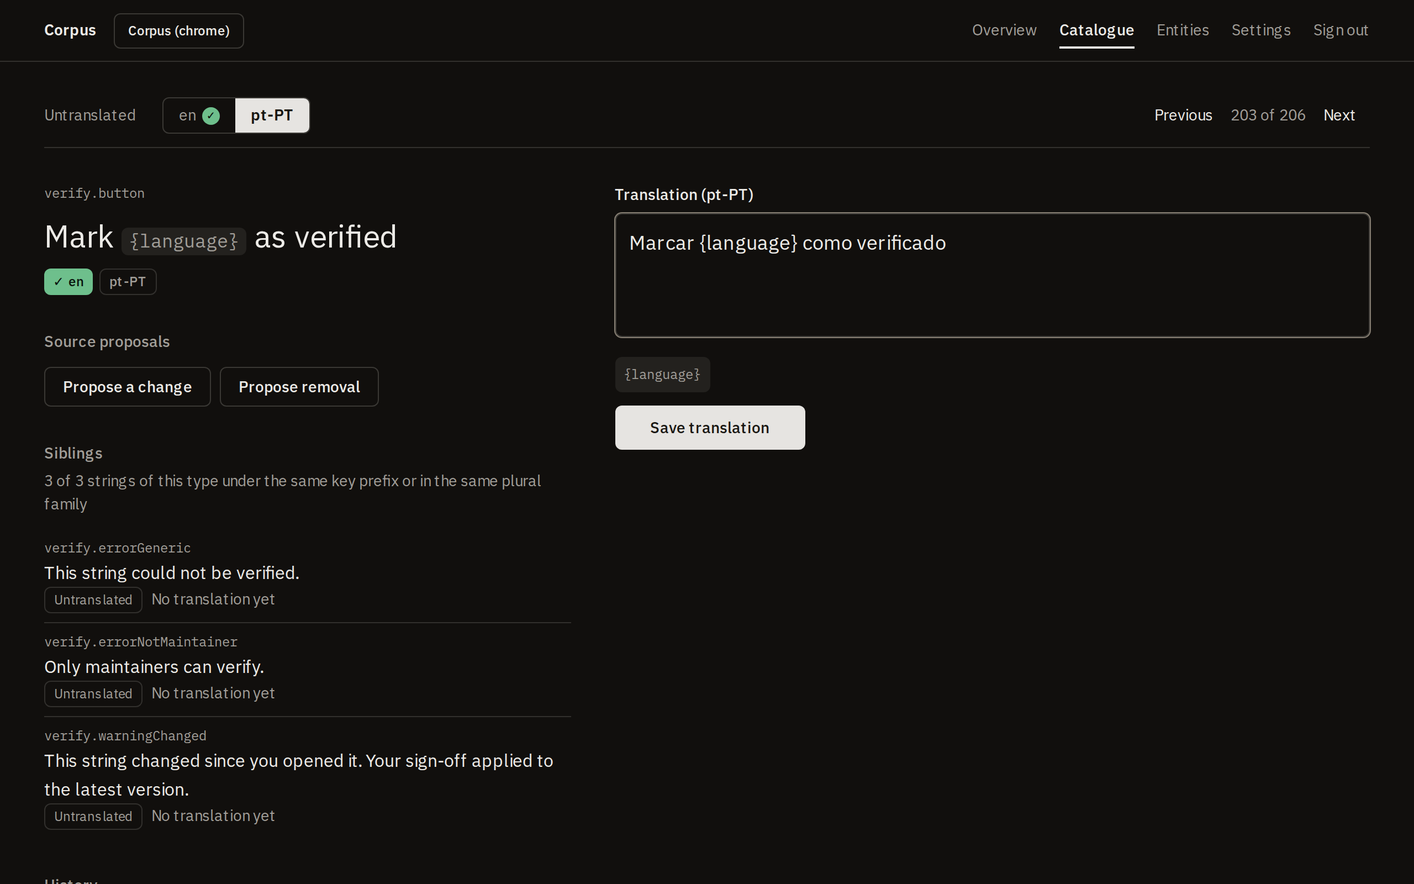
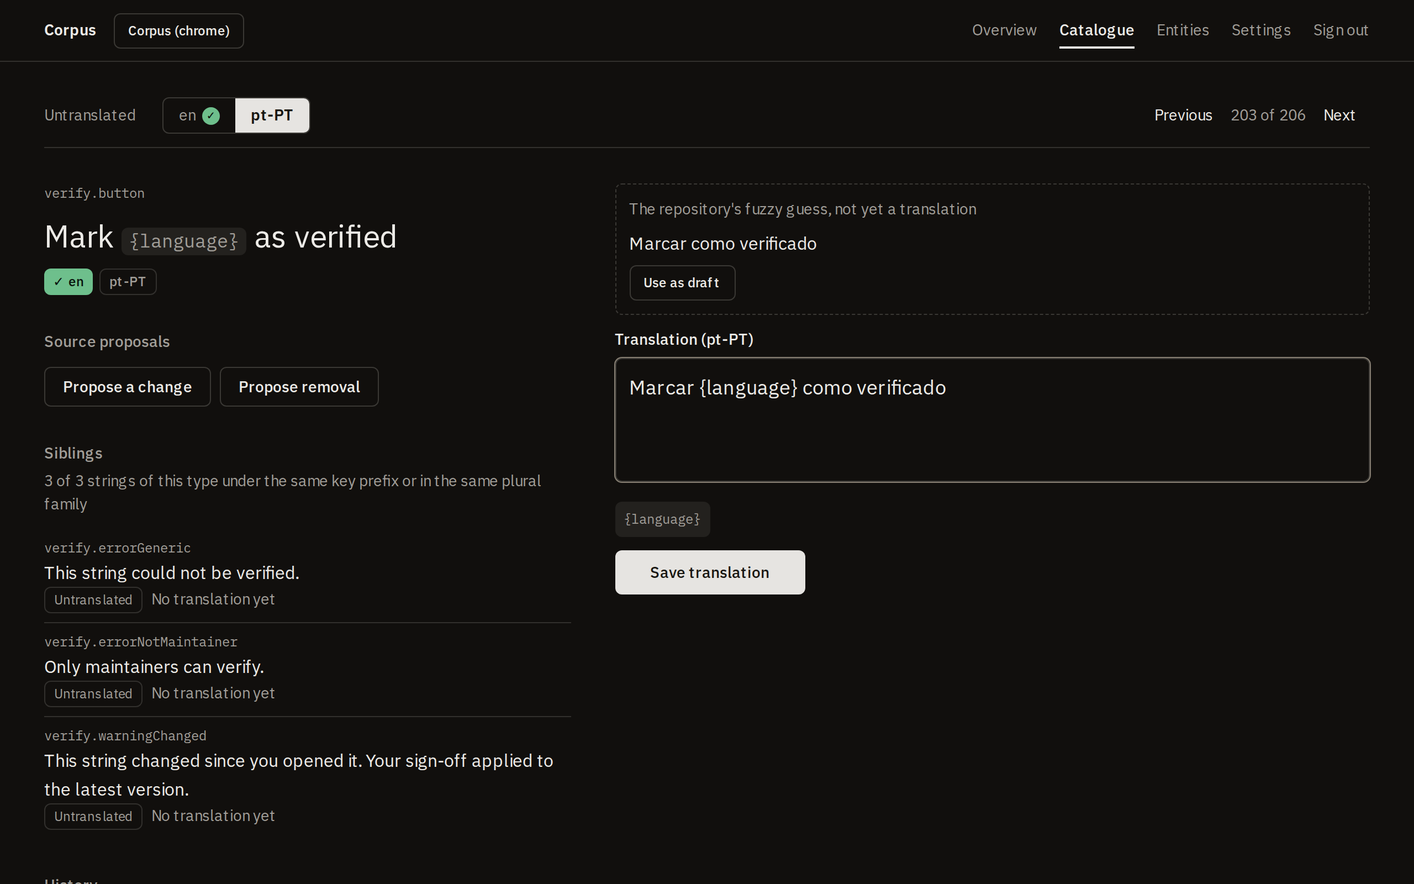
The editor shows the repository's fuzzy guess on an untranslated row, with a button that copies it into the draft (#811)
* The editor shows the repository's fuzzy guess on an untranslated row, with a button that copies it into the draft

* The suggestion is labelled once, shown as it will be copied, and focuses the draft when used

diff --git a/apps/web/src/components/target-pane.tsx b/apps/web/src/components/target-pane.tsx
@@ -174,6 +174,7 @@ export function TargetPane({
   queue,
   examples = [],
   sourceLanguage,
+  suggestion = null,
 }: {
   action: (formData: FormData) => void | Promise<void>;
   source: string;
@@ -192,6 +193,9 @@ export function TargetPane({
   // The examples' slot values are in the source language unless they
   // carry the target's (§7); the preview says which.
   sourceLanguage: string;
+  // The repository's guess to start from (#774): shown, never saved
+  // until the translator saves.
+  suggestion?: string | null;
 }) {
   const [text, setText] = useState(initialText);
   const ref = useRef<HTMLTextAreaElement>(null);
@@ -245,6 +249,29 @@ export function TargetPane({
       <input type="hidden" name="openedVersion" value={openedVersion} />
       <input type="hidden" name="openedSource" value={sourceStamp(source)} />
       {queue && <input type="hidden" name="queue" value={queue} />}
+      {suggestion && (
+        <div
+          role="region"
+          aria-labelledby="suggestion-label"
+          className="space-y-2 rounded-md border border-dashed border-input p-3"
+        >
+          <p id="suggestion-label" className="text-sm text-muted-foreground">
+            {t("editor.suggestionLabel")}
+          </p>
+          <p className="text-base whitespace-pre-wrap">{suggestion}</p>
+          <Button
+            type="button"
+            variant="outline"
+            size="sm"
+            onClick={() => {
+              setText(suggestion);
+              ref.current?.focus();
+            }}
+          >
+            {t("editor.useSuggestion")}
+          </Button>
+        </div>
+      )}
       <Field label={t("editor.targetLabel", { language })}>
         <textarea
           ref={ref}

diff --git a/apps/web/src/components/target-pane.test.tsx b/apps/web/src/components/target-pane.test.tsx
@@ -708,3 +708,45 @@ test("a select and a plural on one argument name each get their own chip and ske
     ),
   ).toEqual({ ok: true });
 });
+
+test("a suggestion shows above the draft, and its button fills the draft, validated as typed text; none, nothing shown (#774)", () => {
+  render(
+    <TargetPane
+      action={vi.fn()}
+      source={SOURCE}
+      slots={slots}
+      language="en"
+      initialText=""
+      slug="mm"
+      stringKey="k"
+      openedVersion={1}
+      sourceLanguage="pt-PT"
+      suggestion="{witness} saw {suspect}"
+    />,
+  );
+  const region = screen.getByRole("region", {
+    name: "The repository's fuzzy guess, not yet a translation",
+  });
+  expect(region.textContent).toContain("{witness} saw {suspect}");
+  const textarea = screen.getByRole("textbox") as HTMLTextAreaElement;
+  expect(textarea.value).toBe("");
+  fireEvent.click(screen.getByRole("button", { name: "Use as draft" }));
+  expect(textarea.value).toBe("{witness} saw {suspect}");
+  expect(document.activeElement).toBe(textarea);
+  // The guess drops {hour}: validation says so, as for typed text.
+  expect(screen.getByText("Missing {hour}")).toBeTruthy();
+  expect(
+    (
+      screen.getByRole("button", {
+        name: "Save translation",
+      }) as HTMLButtonElement
+    ).disabled,
+  ).toBe(true);
+  cleanup();
+  pane();
+  expect(
+    screen.queryByRole("region", {
+      name: "The repository's fuzzy guess, not yet a translation",
+    }),
+  ).toBeNull();
+});

diff --git a/apps/web/src/app/p/[slug]/s/[stringId]/page.tsx b/apps/web/src/app/p/[slug]/s/[stringId]/page.tsx
@@ -19,6 +19,7 @@ import { OtherLanguages } from "@/components/other-languages";
 import { GlossaryTerms } from "@/components/glossary-terms";
 import { Siblings } from "@/components/siblings";
 import { NoteText } from "@/components/note-text";
+import { suggestionOf } from "@/translations/suggestion";
 import { siblingsOf } from "@/strings/siblings";
 import { inPositionOrder } from "@/strings/slots";
 import { ProposalPanel } from "@/components/proposal-panel";
@@ -377,6 +378,7 @@ export default async function StringPage({
                 queue={queueKind}
                 examples={examples}
                 sourceLanguage={project.sourceLanguage}
+                suggestion={suggestionOf(targetRow)}
               />
             </section>
           )}

diff --git a/apps/web/e2e/screenshots.ts b/apps/web/e2e/screenshots.ts
@@ -167,7 +167,12 @@ async function main(): Promise<void> {
   const changed = structuredClone(chrome);
   const heading = changed.strings.find((s) => s.id === "entities.heading");
   if (heading) heading.source = `${heading.source} & relations`;
-  await pushChrome(changed);
+  // A fuzzy guess on the string the editor shot opens (#774); every push
+  // replaces suggestions, so this one carries it.
+  await pushChrome({
+    ...changed,
+    seedSuggestions: { "pt-PT": { "verify.button": "Marcar como verificado" } },
+  });
 
   await page.goto(corpus, { waitUntil: "networkidle" });
   await shot("dashboard");

diff --git a/apps/web/src/translations/suggestion.test.ts b/apps/web/src/translations/suggestion.test.ts
@@ -1,0 +1,11 @@
+import { expect, test } from "vitest";
+import { suggestionOf } from "./suggestion";
+
+test("a suggestion is offered only on a row with no translation (#774)", () => {
+  expect(suggestionOf({ state: "untranslated", suggestion: "Guess" })).toBe(
+    "Guess",
+  );
+  expect(suggestionOf({ state: "translated", suggestion: "Guess" })).toBeNull();
+  expect(suggestionOf({ state: "verified", suggestion: "Guess" })).toBeNull();
+  expect(suggestionOf({ state: "untranslated", suggestion: null })).toBeNull();
+});

diff --git a/apps/web/src/translations/suggestion.ts b/apps/web/src/translations/suggestion.ts
@@ -1,0 +1,8 @@
+// The suggestion a row's editor offers: the repository's, a gettext
+// fuzzy row (#721, #773), only while the row has no translation (#774).
+export function suggestionOf(row: {
+  state: string;
+  suggestion: string | null;
+}): string | null {
+  return row.state === "untranslated" && row.suggestion ? row.suggestion : null;
+}

diff --git a/docs/corpus-design.md b/docs/corpus-design.md
@@ -346,7 +346,7 @@ All surfaces are project-scoped under `/p/[slug]/…`, with a project switcher (
 
 1. **Dashboard** — per-language progress bars broken down by string type, or, from eight languages on, a table of one row and one bar per language, ordered by how many rows are untranslated, most first, with the source language pinned above them and ties by code, the per-type bars behind a disclosure on the row when the project has more than one type; **queues** as buttons: *untranslated (n)* (never a variant of the source, §8), *stale (n)*, *unverified source (n)*, *agent drafts (n)* once the project has any (§10): the `translated` rows whose latest edit is the agent actor's, so a maintainer walks machine text as its own pile and verifies it row by row, and *invalid (n)* once the project has any: the seeds that fail validation (§8), each with what is wrong as the editor says it, counted per language and type beside the states. Tapping a queue opens the editor at its first item. A translator should never wonder what to work on. The same numbers, from the same query, are the `/api/status` response, read with the project token, and the output of `corpus status` (§3).
 2. **Catalogue** — every string; FTS5 search (accent-insensitive); facet filters auto-generated from metadata declarations plus type, state, language, archived. A language alone lists the strings with text in it (translated or verified, stale included); a state alone, the strings in that state in any language; both, that state in that language. Rows show per-language state chips, a count per state from a dozen languages (§9.3), and a pending mark when the string has a proposal; click into the editor. **Add a string** (anyone on the instance) takes a key, a source file chosen among the writable sources push declared, which fixes the type since a source has one, and the source text, validated as a source (§5); the key must be a string id (§4) and not an existing id, active or archived, since an add on an existing key is an edit and on an archived one a restore, both done on the string itself. It records a pending add (§11). This surface is the aggregation/verification view and is fully useful before any translation exists.
-3. **Editor** — source left (branch view for selects and plurals, `#` shown as a chip, placeholder chips, metadata chips, entity cards in a side rail, examples), target right (chip-insertable placeholders — no hand-typed braces; a plural's chip inserts the target language's categories, each branch opened with `#`; a nested argument is named in each branch of its outer one's and its keys listed beside it, each inner branch once (#769), bracketed in the sentence, and the outer chip inserts the inner skeleton in each branch, #765), live preview from the draft using example values (the selected language's when the example carries them, §7), save (→ `translated`) and verify (→ `verified`, maintainer only), visible attributed history, next/previous at thumb height to flow through a queue. Validation feedback is inline and specific ("missing {witness}"). A **language bar** at the top of the string page, inside the queue bar on a desktop, is the switcher: one segment per language of the project, the selected one solid, the source language first with its verified mark, no words beside the codes; from twelve languages, about two rows of segments on a phone, the bar is a picker instead: the source segment as it is, the selected language as the control (reading "Pick a language" while the source is selected), and the rest in a list that filters on the code as you type, so the codes do not take the first screen before the string; the queue the person came from is kept when the switched-to row is in it, and dropped otherwise, so next and previous never point at a row the queue does not contain; the source language's segment is the proofreading view. The state chips are display only, and from a dozen languages they are a count per state, the source and the selected language keeping their chips and the full strip behind a disclosure; in a catalogue row, which is a link and may hold no disclosure, they are the counts alone. Placeholder chips keep the token as their text and show the resolved value on hover (§7). Under the source, anyone may **propose a change** to the source text (the same chips and validation as the target pane; the text must parse as a source) or **propose removal**; a pending proposal shows its text and author, can be withdrawn, and stays visible until a push lands or supersedes it, a newer proposal replaces it, or it is withdrawn. A string whose source pull cannot write, an `exec` source or a `.ts` or `.js` catalogue (§4), shows why instead of the buttons. Under the source pane, **the other languages**, every language except the source and the selected target, are readable: current text or a quiet "No translation yet", the state, stale marked; read only, so save and verify act on one target at a time; the first five open and the rest folded behind their count, so a project of dozens of languages does not put every text under the editor. Under the source too: the type's **note** (§5), the **glossary** entries that occur in the source (§5), and the **siblings**: the other active strings of the same type whose key shares the string's prefix up to its last dot (a key with no dot has none, and neither does a key with whitespace in it, a sentence rather than a path), together with the string's i18next plural family, the base key and its `_plural`, `_zero`, `_one`, `_two`, `_few`, `_many` and `_other` forms, whatever the key's shape, in key order; the page shows the ten nearest in that order, five before and five after where they exist and filled from the other side otherwise, with the total, each a link showing its source and the selected target's text and state, so a set of quips or a run of steps is translated as a set.
+3. **Editor** — source left (branch view for selects and plurals, `#` shown as a chip, placeholder chips, metadata chips, entity cards in a side rail, examples), target right (the repository's fuzzy guess, where a push carried one and the row has no translation yet, shown above the draft with a button that copies it in, nothing saved until the translator saves, #774; chip-insertable placeholders — no hand-typed braces; a plural's chip inserts the target language's categories, each branch opened with `#`; a nested argument is named in each branch of its outer one's and its keys listed beside it, each inner branch once (#769), bracketed in the sentence, and the outer chip inserts the inner skeleton in each branch, #765), live preview from the draft using example values (the selected language's when the example carries them, §7), save (→ `translated`) and verify (→ `verified`, maintainer only), visible attributed history, next/previous at thumb height to flow through a queue. Validation feedback is inline and specific ("missing {witness}"). A **language bar** at the top of the string page, inside the queue bar on a desktop, is the switcher: one segment per language of the project, the selected one solid, the source language first with its verified mark, no words beside the codes; from twelve languages, about two rows of segments on a phone, the bar is a picker instead: the source segment as it is, the selected language as the control (reading "Pick a language" while the source is selected), and the rest in a list that filters on the code as you type, so the codes do not take the first screen before the string; the queue the person came from is kept when the switched-to row is in it, and dropped otherwise, so next and previous never point at a row the queue does not contain; the source language's segment is the proofreading view. The state chips are display only, and from a dozen languages they are a count per state, the source and the selected language keeping their chips and the full strip behind a disclosure; in a catalogue row, which is a link and may hold no disclosure, they are the counts alone. Placeholder chips keep the token as their text and show the resolved value on hover (§7). Under the source, anyone may **propose a change** to the source text (the same chips and validation as the target pane; the text must parse as a source) or **propose removal**; a pending proposal shows its text and author, can be withdrawn, and stays visible until a push lands or supersedes it, a newer proposal replaces it, or it is withdrawn. A string whose source pull cannot write, an `exec` source or a `.ts` or `.js` catalogue (§4), shows why instead of the buttons. Under the source pane, **the other languages**, every language except the source and the selected target, are readable: current text or a quiet "No translation yet", the state, stale marked; read only, so save and verify act on one target at a time; the first five open and the rest folded behind their count, so a project of dozens of languages does not put every text under the editor. Under the source too: the type's **note** (§5), the **glossary** entries that occur in the source (§5), and the **siblings**: the other active strings of the same type whose key shares the string's prefix up to its last dot (a key with no dot has none, and neither does a key with whitespace in it, a sentence rather than a path), together with the string's i18next plural family, the base key and its `_plural`, `_zero`, `_one`, `_two`, `_few`, `_many` and `_other` forms, whatever the key's shape, in key order; the page shows the ten nearest in that order, five before and five after where they exist and filled from the other side otherwise, with the total, each a link showing its source and the selected target's text and state, so a set of quips or a run of steps is translated as a set.
 4. **Entity browser** — read-only cards per entity type, narrowed by a type chip or a name search once a project has hundreds.
 5. **Maintainer corner** — project settings, push token (generate/rotate), snapshot history (when, counts, stale caused), language list, seen users. Visible to maintainers only. The project's agent actor (§10) is listed among the users as what it is, with no password reset and no maintainer toggle. Adding a language creates an `untranslated` row for every active string at once (§11), so the dashboard, the queues and the catalogue show it without a push; removing one keeps its rows for when it comes back.
 

diff --git a/CHANGELOG.md b/CHANGELOG.md
@@ -18,7 +18,7 @@ contract (`corpus/1`) is the only one.
 - A String Catalog key's verbs are the arguments the code passes (`notifications.label.favorite %lld`), carried with the string as `arguments` (additive) and honoured wherever a translation is validated: the CLI, a push's seeds, the editor, a transition and an agent's draft. A translation may pluralise on one the English text does not print (German's `hat favorisiert`/`haben favorisiert` where English says "starred"), and a verb written at that position must be the key's type, so `%@` for an `lld` count is refused. Ice Cubes now validates with only its two real defects. The string API and the MCP `get_string` return them as `arguments`, so an agent knows it may pluralise on one.
 - An `xcstrings` source reads Apple's String Catalog, the default for every Xcode project since Xcode 15, with no converter: `{ adapter: "xcstrings", type: "ui", path: "App/Localizable.xcstrings" }`, one file for every language. A unit's value is the text, `variations.plural` a plural of printf branches, `substitutions` plurals on the argument they format whatever each language names them, device and width variants one string each (`key [device:iphone]`), a key with no English unit its own text; stale keys and `shouldTranslate: false` are left out, `comment` is the note, and only units translated throughout seed, `needs_review` staying work. On Ice Cubes (19 languages in one 2.2 MB file) it builds the same 732 strings and the same 12,038 seeds as the trial's 220-line converter, and validate names the language on each line. `build`, `push` and `validate` read it, and `pull` writes changed units back in Xcode's own layout, each language's substitution names, `argNum` and device variants kept; on Ice Cubes a pull of every language's own translations leaves the 2.2 MB file byte-identical, and a changed Polish substitution rewrites that unit alone. A catalogue not saved in Xcode's layout is refused rather than reformatted. `corpus init --messages App/Localizable.xcstrings` writes the source, reading the languages and the source language from the file; on Ice Cubes the config it writes builds the 732 strings.
 - Under `library: "printf"`, a text may hold plurals on `argN` among its printf text, as an Apple String Catalog's substitutions do: `{arg1, plural, one {%arg recent post} other {%arg recent posts}} from {arg2, plural, one {%arg participant} other {%arg participants}}`. Each plural is the Nth argument, so German naming its substitutions `count_posts` and `count_participants`, Polish joining them with a space and Basque swapping them all validate against English, and a translation may pluralise an argument English prints plainly. `%arg` inside such a branch, or the branch's first verb with no index where it writes no `%arg`, is the argument itself, never the hex-float verb `%a`. On Ice Cubes' catalogue this leaves 18 findings where the trial's converter run reported 60: its two real defects, and 16 plurals on an argument only the key carries, which the `xcstrings` source reads from the key.
-- A `gettext` source reads `.po` and `.pot` files with no converter: `{ adapter: "gettext", type: "ui", path: "locales/{lang}.po", sourcePath: "locales/app.pot" }`. Each msgid is a string keyed by its own text, a `msgctxt` joined before it; a plural is one ICU plural with a branch for each of the language's CLDR categories, read from the `msgstr[n]` the file's `Plural-Forms` gives that category's integers, so French `many` and Russian `other`, which gettext cannot name, are never missing; a fuzzy row is not seeded but sent as a suggestion, `seedSuggestions` in the snapshot (additive), which `build` counts per language (Joplin's 44 catalogues hold 11,445), the server keeps per string and language, replaced by every push, and the string API and `get_string` return as a language's `suggestion`, and a translation identical to its msgid is seeded translated; `#.` comments and `#:` references are the note. The library is `printf`, so a draft that drops a `%s` is refused. Joplin's 43 languages of 1,854 msgids needed a 272-line converter. `build`, `push` and `validate` read it, and `pull` writes a changed `msgstr` back in place, wrapped as msgmerge wraps it (all 17,015 msgstr blocks of Joplin's nine catalogues but one reproduce byte for byte), clearing `fuzzy` on a row it writes; a plural's `msgstr[n]` follow the file's `Plural-Forms`, an entry the file lacks is appended from the `.pot`, and a missing `.po` starts from the `.pot` with its `Language:` set. `corpus init --messages locales/{lang}.po` writes the source, with the `.pot` above the language directory as its `sourcePath` (GNU's `locales/{lang}/LC_MESSAGES/app.po` too) and `--library` on it; on Joplin's tree the config it writes builds 1,854 strings.
+- A `gettext` source reads `.po` and `.pot` files with no converter: `{ adapter: "gettext", type: "ui", path: "locales/{lang}.po", sourcePath: "locales/app.pot" }`. Each msgid is a string keyed by its own text, a `msgctxt` joined before it; a plural is one ICU plural with a branch for each of the language's CLDR categories, read from the `msgstr[n]` the file's `Plural-Forms` gives that category's integers, so French `many` and Russian `other`, which gettext cannot name, are never missing; a fuzzy row is not seeded but sent as a suggestion, `seedSuggestions` in the snapshot (additive), which `build` counts per language (Joplin's 44 catalogues hold 11,445), the server keeps per string and language, replaced by every push, and the string API and `get_string` return as a language's `suggestion`; the editor shows it above the draft of an untranslated row with a button that copies it in, and a translation identical to its msgid is seeded translated; `#.` comments and `#:` references are the note. The library is `printf`, so a draft that drops a `%s` is refused. Joplin's 43 languages of 1,854 msgids needed a 272-line converter. `build`, `push` and `validate` read it, and `pull` writes a changed `msgstr` back in place, wrapped as msgmerge wraps it (all 17,015 msgstr blocks of Joplin's nine catalogues but one reproduce byte for byte), clearing `fuzzy` on a row it writes; a plural's `msgstr[n]` follow the file's `Plural-Forms`, an entry the file lacks is appended from the `.pot`, and a missing `.po` starts from the `.pot` with its `Language:` set. `corpus init --messages locales/{lang}.po` writes the source, with the `.pot` above the language directory as its `sourcePath` (GNU's `locales/{lang}/LC_MESSAGES/app.po` too) and `--library` on it; on Joplin's tree the config it writes builds 1,854 strings.
 - An `xliff` source reads XLIFF 1.2 and 2.0, Angular's i18n and most translation tools' export, with no converter: `{ adapter: "xliff", type: "ui", path: "src/locale/messages.{lang}.xlf", sourcePath: "src/locale/messages.xlf" }`. A unit's `<source>` is the string and its `<target>` a seed where its state is not `new`, `needs-translation` or `initial`, a target identical to the source under such a state seeded translated; `<x id="INTERPOLATION"/>` and `<ph>` are placeholders, `START_LINK`/`CLOSE_LINK` pairs, `<g>`, `<pc>` and `<bpt>`/`<ept>` tags whose order and pairing are checked; comments, `<alt-trans>` fuzzy matches and 2.0's `<ignorable>` are not the unit's text, and a file whose elements carry a namespace prefix is refused by name; `<note from="description">` and `meaning` are the note, followed by where Angular found the text (`Used in src/app/a.html:12 …`, from 1.2's location groups and 2.0's location notes), as the gettext and qt-ts sources give theirs. A placeholder's `equiv-text` (2.0's `disp`), what Angular substitutes there, is the unit's example, so the string page, a blank draft's preview (`Hello {{ user.name }}`) and an agent's `get_string` slots show it; on Ghostfolio 38 units gain one. Ghostfolio's 14 languages of 907 units needed a 143-line converter. `corpus init --messages src/locale/messages.{lang}.xlf` writes the source, `sourcePath` included when Angular's `messages.xlf` sits beside the target files. A pull writes a changed translation into its unit's `<target>` with the unit's own inline elements, turns a `new` state to `translated`, gives a unit without a target one after its `<source>` and appends a unit the file lacks, every other byte kept; a missing target file starts as the source file with `target-language` set, and proposals edit the source file's units.
 - `library: "qt"`, Qt's `tr()` substitution: `%1` to `%99` and `%L1` are placeholders by number, in any order and repeated at will, `%n` is the numerus count, and any other `%`, braces and angle brackets are text unless the type is read as HTML. qBittorrent, through its converter, built only under `printf`, which read its `%1h %2m` time formats as verbs, 244 of 259 findings false in 51 languages, and missed its 72 real ones: `% 1`, `1%` and a dropped `%1` passed, while a correct `%1 ث` was refused as `Missing %1s`.
 - `library: "rails"`, Rails I18n's and I18n.js's interpolation: `%{name}` and the format style `%<count>d` are placeholders a translation keeps as written, `%%` a literal, other braces text, and plural hashes read as one plural. No library read `%{name}`: under `icu` it was `%` and `{name}`, so a Discourse translation writing `{application_name}`, which Rails prints as it stands, was accepted, a refusal said `Missing {application_name}`, the chip inserted `{name}` without the `%`, and a literal brace was read as ICU. `corpus init` names it where `%{name}` placeholders dominate, and the plural chip fills each form with `%{count}`.
